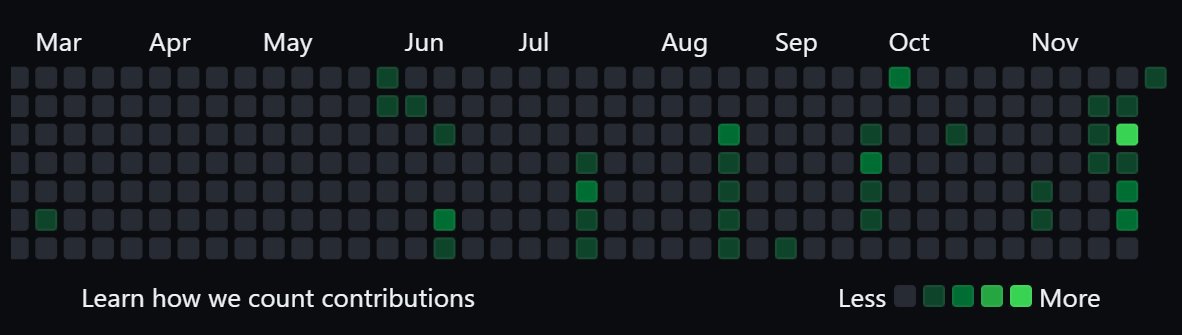
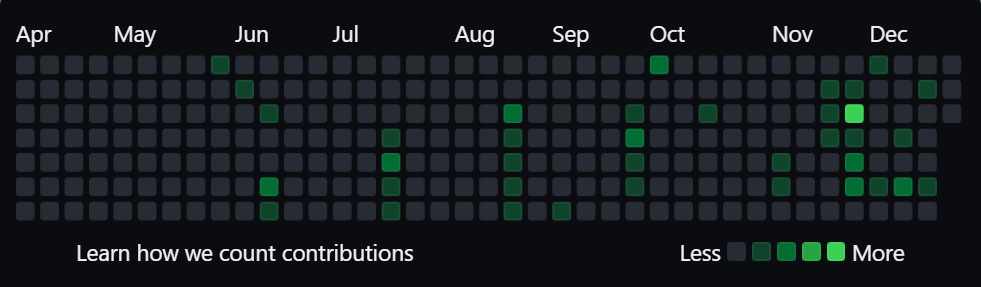
calender updated

diff --git a/src/Components/Portfolio/Portfolio.jsx b/src/Components/Portfolio/Portfolio.jsx
@@ -18,7 +18,7 @@ const data = [
   {
     id: 2,
     image: projectimg2,
-    title: "KindMeal.my - Clone : It is Malaysia's pioneering meat-free lifestyle platform. ",
+    title: "KindMeal.my - Clone : It is Malaysia's meat-free lifestyle platform. ",
     tech : "HTML | CSS | Javasript | DOM",
     github: "https://github.com/Loki343/arrogant-beef-5673",
     demo: "https://verdant-alpaca-c375a0.netlify.app/",
@@ -26,7 +26,7 @@ const data = [
   {
     id: 3,
     image: projectimg3,
-    title:"The Hindu - Clone : It is the news website that provides us World wide news",
+    title:"The Hindu - Clone : The news website that provides us World wide news",
     tech : "HTML | CSS | Javasript | DOM",
     github: "https://github.com/meracodemahan/purple-reason-2076",
     demo: "https://warm-tartufo-8ea9c8.netlify.app/",

diff --git a/src/Components/Stats/Stats.jsx b/src/Components/Stats/Stats.jsx
@@ -1,6 +1,7 @@
 import React from "react";
 import "./Stats.css";
-import calender from '../../assets/calender.png'
+//import calender from '../../assets/calender.png';
+import GitHubCalendar from 'react-github-calendar';
 
 const Stats = () => {
   return (
@@ -34,7 +35,8 @@ const Stats = () => {
     </article>
        
        <div className="calender-state">
-            <img src={calender} alt="calender" />
+            {/* <img src={calender} alt="calender" /> */}
+            <GitHubCalendar style={{margin:"auto"}} hideTotalCount="false" hideColorLegend= "false"  blockSize={15} username="kirtirajingale" />
        </div>
     </section>
   );

diff --git a/src/Components/Stats/Stats.css b/src/Components/Stats/Stats.css
@@ -24,9 +24,17 @@
 }
 
 .calender-state{
-    width: 75%;
+    display: flex;
+    justify-content: center;
+    align-items: center;
+    width: 90%;
+    height: 14rem;
+    padding: 0.5rem;
     margin: auto;
-    margin-top: 4rem;
+    margin-top: 5rem;
+    background-color: #2C2C6C;
+    border-radius: 0.6rem;
+    
 }
 
 .calender-state img{
@@ -56,8 +64,14 @@
   }
   .streak-stats{
     width: 100%;
+    margin-bottom: 1rem
+   
   }
   .calender-state{
     width: 100%;
+    height: 6rem;
+    margin-top: 1rem;
+    padding: 0.5rem;
 }
 }
+
